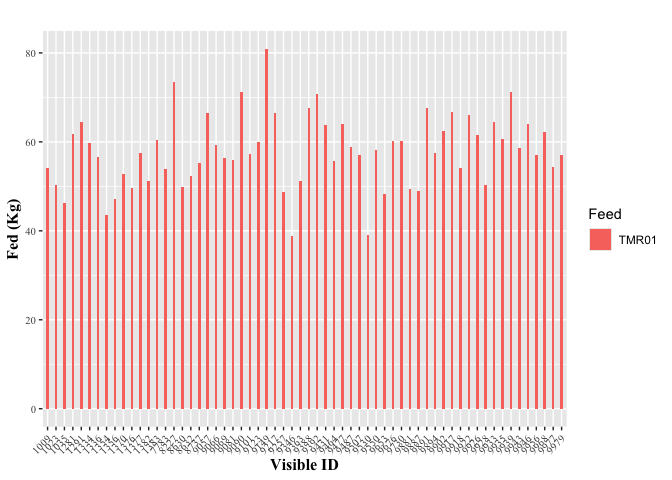
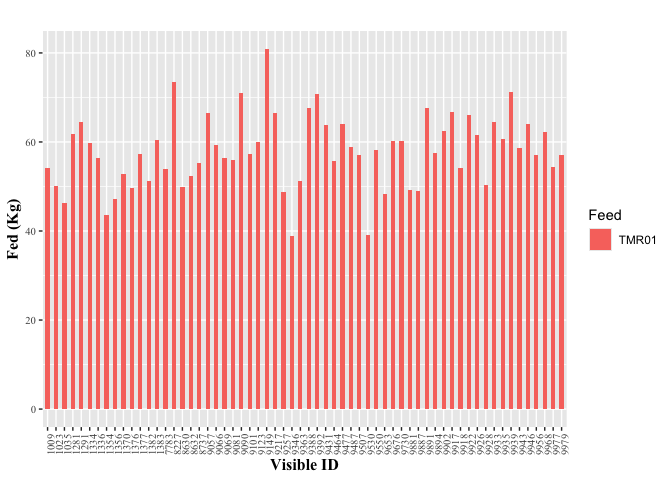
README

diff --git a/README.md b/README.md
@@ -43,6 +43,7 @@ To work with **raw data**, use functions to preprocess and create the
 initial data sets:
 
 - `process_VRfiles()`
+- `mixers()`
 - `process_DC_milkw()`
 - `process_AFI_milkw()`
 
@@ -66,7 +67,7 @@ data <- process_VRfiles(
   bins = seq(1, 32),
   save_dir = tempdir()
 )
-#> The VR file was processed and the result saved at /var/folders/8n/lmf4l1hs7jz2m86j5g16k21c0000gn/T//RtmphByp1y
+#> The VR file was processed and the result saved at /var/folders/8n/lmf4l1hs7jz2m86j5g16k21c0000gn/T//Rtmp8jsg3Z
 ```
 
 <img src="man/figures/README-example-1.png" width="100%" />
@@ -97,22 +98,22 @@ data <- process_DC_milkw(exp = "Study1",
                          save_dir = tempdir())
 #> Number of cows in file: 64
 #> Time range:
-#> 2025-04-06
-#> 2025-04-05
-#> 2025-04-04
-#> 2025-04-03
-#> 2025-04-02
-#> 2025-04-01
-#> 2025-03-31
+#> 2025-08-23
+#> 2025-08-22
+#> 2025-08-21
+#> 2025-08-20
+#> 2025-08-19
+#> 2025-08-18
+#> 2025-08-17
 #>    Min. 1st Qu.  Median    Mean 3rd Qu.    Max. 
 #>    0.00   45.00   53.00   52.88   62.00   89.00
 
 head(data)
 #>   Trial_ID       Date MilkNum Visible_ID MilkLbs
-#> 1   Study1 2025-04-06      PM       1001      66
-#> 2   Study1 2025-04-06      PM       1068      53
-#> 3   Study1 2025-04-06      PM       1069      51
-#> 4   Study1 2025-04-06      PM       1074      57
-#> 5   Study1 2025-04-06      PM       1092      49
-#> 6   Study1 2025-04-06      PM       1097      44
+#> 1   Study1 2025-08-23      PM       1001      66
+#> 2   Study1 2025-08-23      PM       1068      53
+#> 3   Study1 2025-08-23      PM       1069      51
+#> 4   Study1 2025-08-23      PM       1074      57
+#> 5   Study1 2025-08-23      PM       1092      49
+#> 6   Study1 2025-08-23      PM       1097      44
 ```
